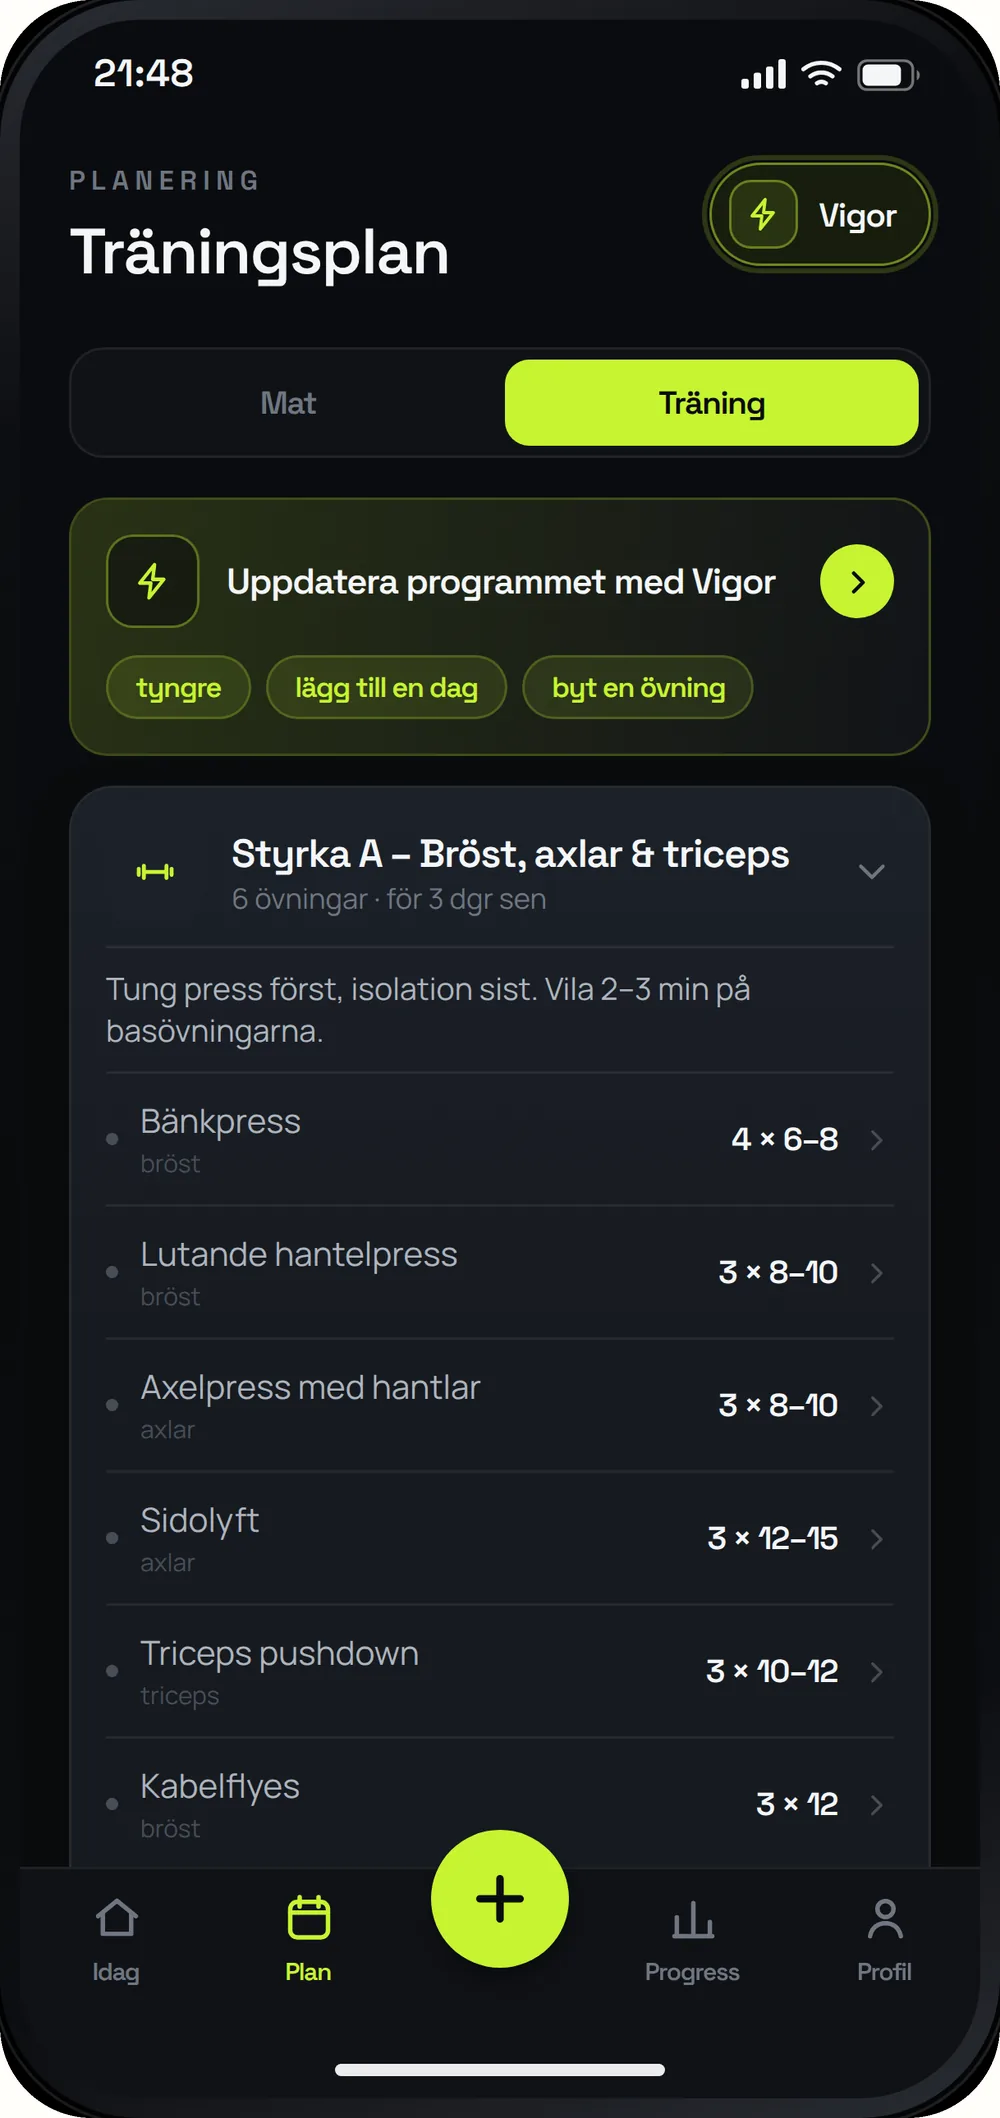
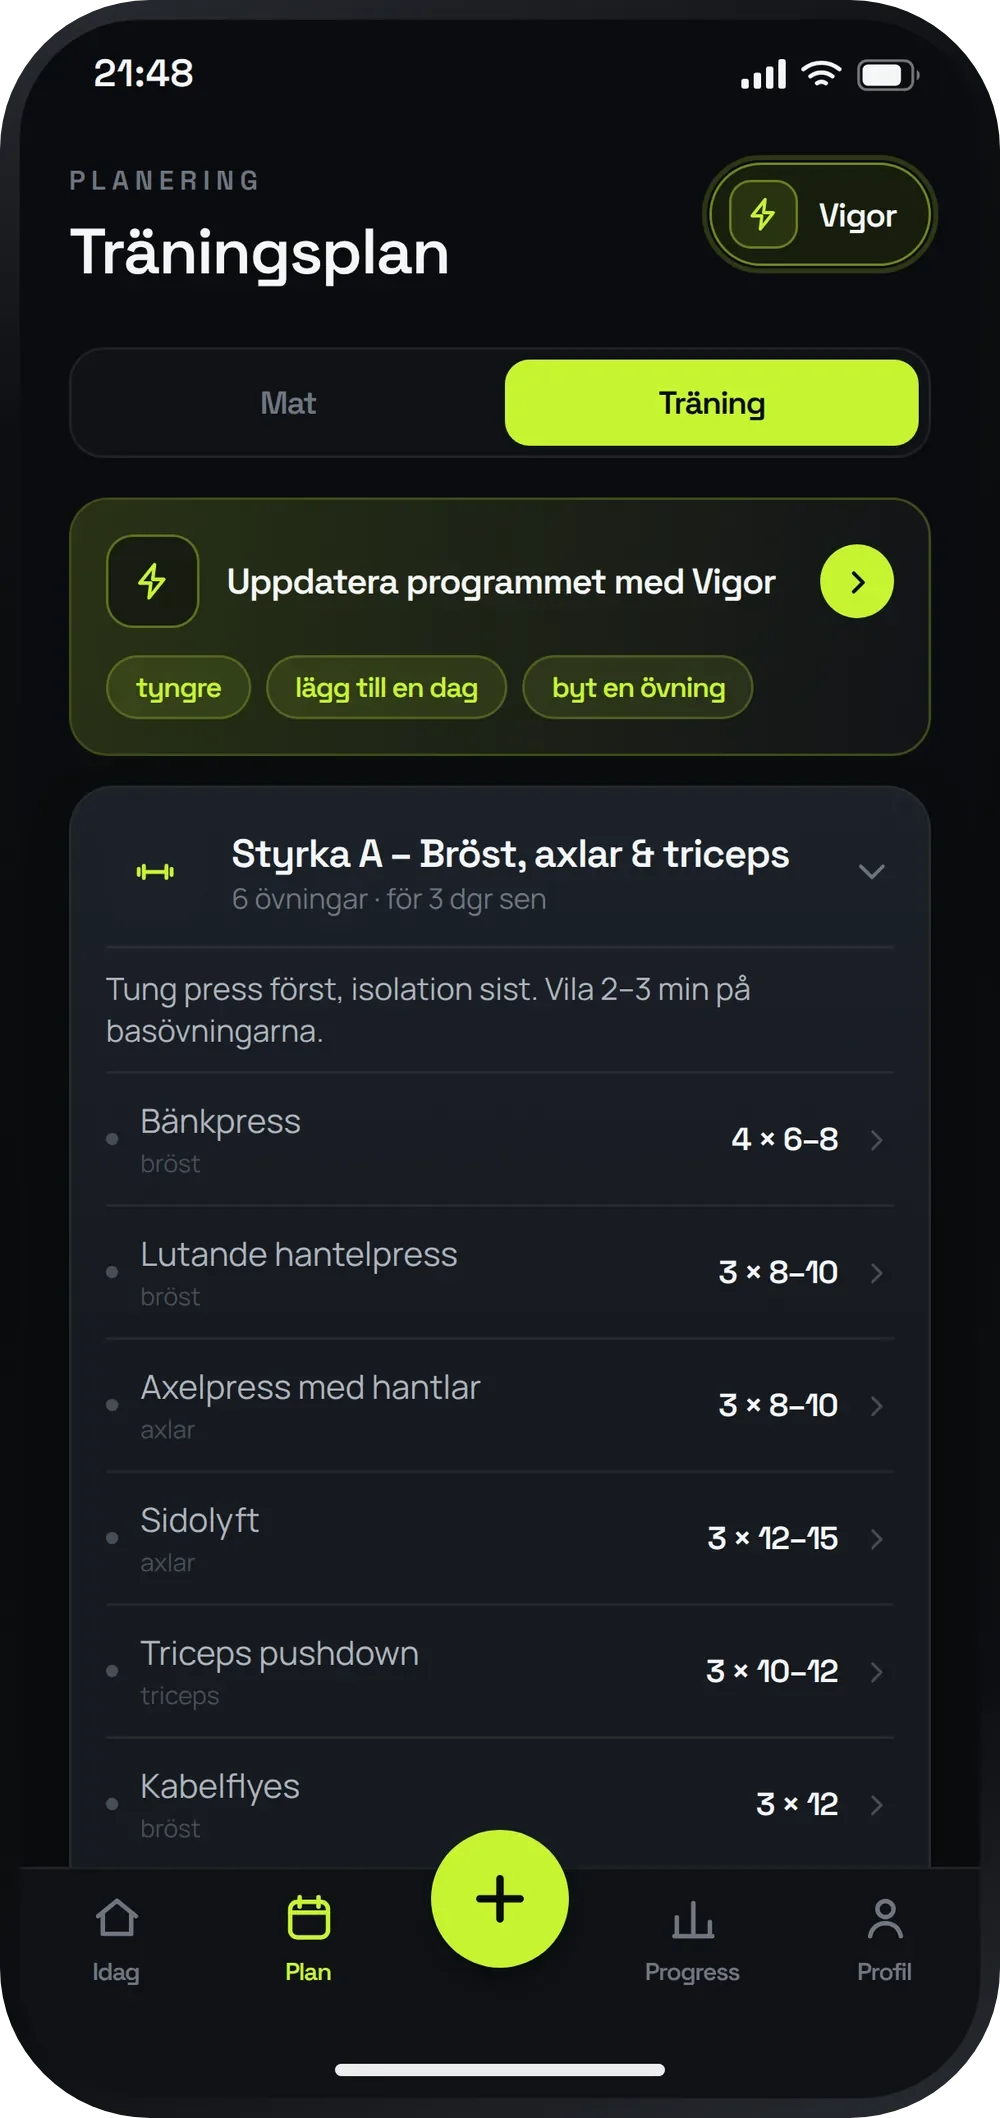
Give the app screenshots a device bezel
Plouma and Vigor lose the cream card for a dark bezel with a dynamic
island and side buttons. Their screenshots are re-clipped with transparent
corners at a single radius so the bezel sits flush; previously the corners
carried a baked-in cream fill that would have shown as light wedges.

The screens are contained, not cropped, so a bottom nav bar stays whole —
the halved menu in the proposal came from the mock cropping to fill. Where
a screenshot's proportions differ slightly from the frame, the sliver takes
the bezel colour and reads as part of it.

Claude-Session: https://claude.ai/code/session_01F9PSTTuwU3qSvsBwPYpVgm

diff --git a/index.html b/index.html
@@ -5,7 +5,7 @@
   <meta name="viewport" content="width=device-width, initial-scale=1">
   <title>Dinos Constantinou</title>
   <meta name="description" content="Financial controller with a builder's habit — Next.js, Supabase, Python and n8n. Internal tools and data systems that businesses actually run on.">
-  <link rel="stylesheet" href="styles.css?v=4">
+  <link rel="stylesheet" href="styles.css?v=5">
 </head>
 <body>
   <div class="wrap">
@@ -70,42 +70,49 @@
           <div class="track" tabindex="0" role="region" aria-label="Plouma screens">
           <figure class="slide">
             <div class="frame phone">
+              <span class="dev" aria-hidden="true"></span>
               
               <div class="screen"><img src="assets/shots/shot-plouma-welcome.webp" alt="Plouma — Welcome screen" loading="lazy"></div>
             </div>
           </figure>
           <figure class="slide">
             <div class="frame phone">
+              <span class="dev" aria-hidden="true"></span>
               
               <div class="screen"><img src="assets/shots/shot-plouma-home.webp" alt="Plouma — Marketplace feed" loading="lazy"></div>
             </div>
           </figure>
           <figure class="slide">
             <div class="frame phone">
+              <span class="dev" aria-hidden="true"></span>
               
               <div class="screen"><img src="assets/shots/shot-plouma-directory.webp" alt="Plouma — Category directory" loading="lazy"></div>
             </div>
           </figure>
           <figure class="slide">
             <div class="frame phone">
+              <span class="dev" aria-hidden="true"></span>
               
               <div class="screen"><img src="assets/shots/shot-plouma-results.webp" alt="Plouma — Search results" loading="lazy"></div>
             </div>
           </figure>
           <figure class="slide">
             <div class="frame phone">
+              <span class="dev" aria-hidden="true"></span>
               
               <div class="screen"><img src="assets/shots/shot-plouma-listing.webp" alt="Plouma — Item listing" loading="lazy"></div>
             </div>
           </figure>
           <figure class="slide">
             <div class="frame phone">
+              <span class="dev" aria-hidden="true"></span>
               
               <div class="screen"><img src="assets/shots/shot-plouma-chat-offer.webp" alt="Plouma — Chat with an offer" loading="lazy"></div>
             </div>
           </figure>
           <figure class="slide">
             <div class="frame phone">
+              <span class="dev" aria-hidden="true"></span>
               
               <div class="screen"><img src="assets/shots/shot-plouma-profile.webp" alt="Plouma — Seller profile" loading="lazy"></div>
             </div>
@@ -124,30 +131,35 @@
           <div class="track" tabindex="0" role="region" aria-label="Vigor screens">
           <figure class="slide">
             <div class="frame phone">
+              <span class="dev" aria-hidden="true"></span>
               
               <div class="screen"><img src="assets/shots/shot-vigor-today.webp" alt="Vigor — Today: calories left, macros and the day's meals" loading="lazy"></div>
             </div>
           </figure>
           <figure class="slide">
             <div class="frame phone">
+              <span class="dev" aria-hidden="true"></span>
               
               <div class="screen"><img src="assets/shots/shot-vigor-plan.webp" alt="Vigor — Training plan with sets and reps per exercise" loading="lazy"></div>
             </div>
           </figure>
           <figure class="slide">
             <div class="frame phone">
+              <span class="dev" aria-hidden="true"></span>
               
               <div class="screen"><img src="assets/shots/shot-vigor-progress.webp" alt="Vigor — Progress: weight journey against the goal" loading="lazy"></div>
             </div>
           </figure>
           <figure class="slide">
             <div class="frame phone">
+              <span class="dev" aria-hidden="true"></span>
               
               <div class="screen"><img src="assets/shots/shot-vigor-chat.webp" alt="Vigor — Coach chat answering how the week is going" loading="lazy"></div>
             </div>
           </figure>
           <figure class="slide">
             <div class="frame phone">
+              <span class="dev" aria-hidden="true"></span>
               
               <div class="screen"><img src="assets/shots/shot-vigor-memory.webp" alt="Vigor — What the coach remembers about you" loading="lazy"></div>
             </div>
@@ -221,6 +233,6 @@
     </footer>
 
   </div>
-  <script src="main.js?v=4"></script>
+  <script src="main.js?v=5"></script>
 </body>
 </html>

diff --git a/styles.css b/styles.css
@@ -34,6 +34,8 @@
   --border: #d5cfc2;
   --underline: #c9c2b4;
   --accent: #1f513f;
+  --bezel: #100f0e;
+  --button: #2a2724;
 
   --serif: 'Instrument Serif', Georgia, serif;
   --sans: system-ui, -apple-system, sans-serif;
@@ -255,16 +257,68 @@ h1 {
   user-select: none;
 }
 
-/* Phones — Plouma, Vigor, Mosaik */
+/* Phones — Plouma and Vigor. A dark bezel with a dynamic island and side
+   buttons, sitting flush against screenshots whose corners are transparent.
+   The screen is contained, never cropped, so a bottom nav bar stays whole;
+   any leftover sliver takes the bezel colour and reads as part of it. */
 
 .frame.phone {
-  border-radius: 28px;
-  padding: 8px;
+  position: relative;
+  border: 0;
+  border-radius: 34px;
+  padding: 7px;
+  background: var(--bezel);
+  box-shadow:
+    inset 0 0 0 1px rgba(255, 255, 255, 0.07),
+    0 14px 30px rgba(28, 26, 23, 0.20);
 }
 
 .frame.phone .screen {
   aspect-ratio: 9 / 19.5;
-  border-radius: 20px;
+  border-radius: 27px;
+  background: var(--bezel);
+}
+
+.frame.phone img { background: transparent; }
+
+/* Dynamic island */
+.frame.phone::before {
+  content: "";
+  position: absolute;
+  top: 13px;
+  left: 50%;
+  transform: translateX(-50%);
+  width: 62px;
+  height: 15px;
+  border-radius: 999px;
+  background: var(--bezel);
+  z-index: 2;
+}
+
+/* Volume pair and mute switch down the left edge, power on the right. */
+.frame.phone .dev::before,
+.frame.phone .dev::after {
+  content: "";
+  position: absolute;
+  width: 2.5px;
+  border-radius: 2px;
+}
+
+.frame.phone .dev::before {
+  left: -2.5px;
+  top: 88px;
+  height: 134px;
+  background: linear-gradient(
+    var(--button) 0 26px, transparent 26px 36px,
+    var(--button) 36px 78px, transparent 78px 88px,
+    var(--button) 88px 134px);
+}
+
+.frame.phone .dev::after {
+  right: -2.5px;
+  top: 138px;
+  height: 62px;
+  background: var(--button);
 }
 
 /* Browser windows — Betty's dashboards */

diff --git a/assets/shots/README.md b/assets/shots/README.md
@@ -21,7 +21,7 @@ Adding new ones: send full-resolution exports in any format and they get
 converted to WebP — 1600px wide for desktop screens, 1000px for phone
 screens, quality 0.82.
 
-The Plouma and Vigor files came from design mockups with a phone bezel drawn
-in. That bezel is trimmed and the corners filled with the frame's panel
-colour (#fffdf9) so the frame on the page is the only frame you see. Any new
-Plouma or Vigor export needs the same treatment; raw phone screenshots do not.
+Plouma and Vigor screenshots are clipped to a rounded rect at 15% of their
+width, with the corners left transparent, so the dark bezel drawn on the page
+sits flush against them. A new export needs the same treatment — the mockup's
+own bezel trimmed off first, if it has one.
